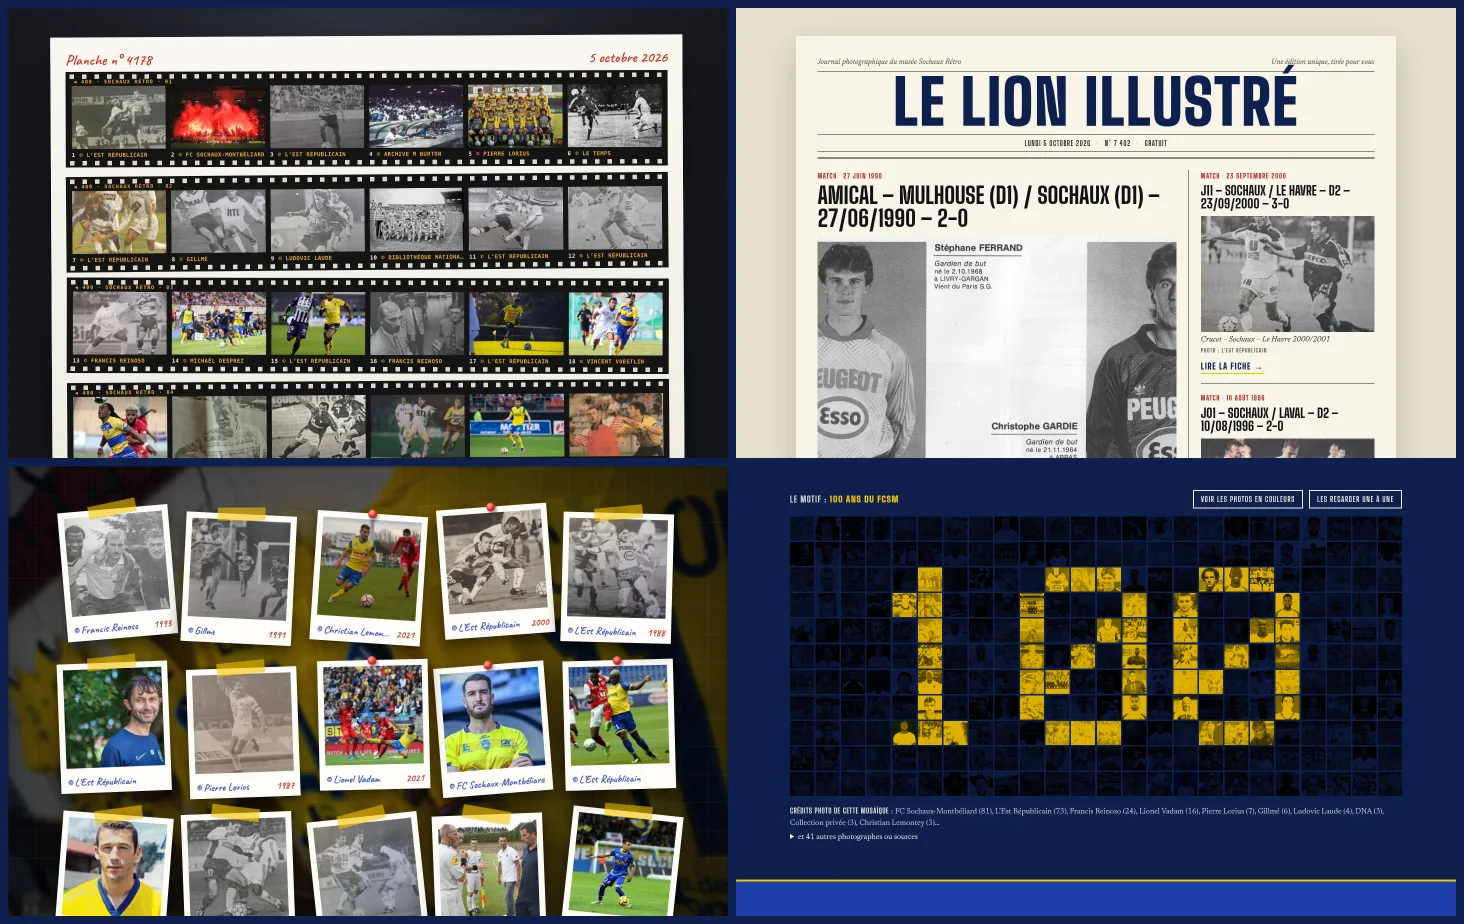
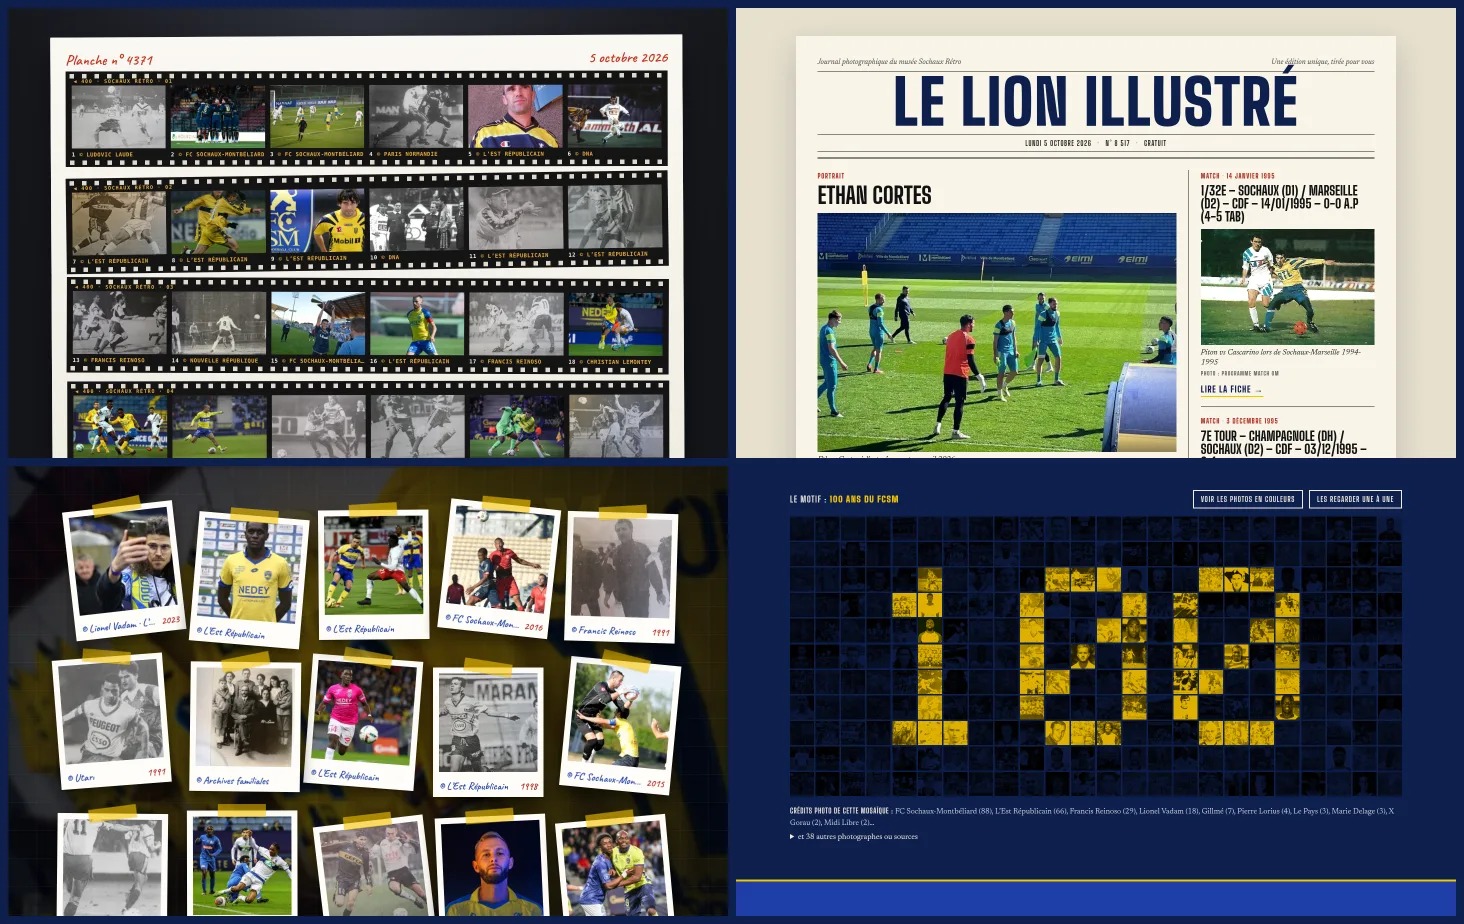
Doc et aide : mur vide après mise à jour, capture des murs à jour
Claude-Session: https://claude.ai/code/session_01Fw6UgWNFSsiGaJDezd8UB1

diff --git a/docs/TECHNIQUE.md b/docs/TECHNIQUE.md
@@ -167,7 +167,8 @@ seconde. Mesures à froid (OPcache vide), avant → après : mentions légales 3
 500 matchs 429 → 187 ms ; site de l'association 147-171 → 70-80 ms.
 
 **Après une mise à jour** (`Updater::afterChange()`) : les caches sont vidés, sauf les gros
-caches de données (`derived*`, `index-*.php`, `search.php`, `media*`) qui servent encore ; la
+caches de données (`derived*`, `index-*.php`, `search.php`, `media*` dont `media-usage.json`, sans
+lequel les murs de photos seraient vides ; s'il manque, `PhotoWall` le recalcule) qui servent encore ; la
 marque `apres-mise-a-jour` demande de les refaire avec le nouveau code (`Updater::refresh()`) :
 par la première page qui suit, au moins 5 s après et une fois envoyée (seulement si PHP sait
 terminer la page avant : PHP-FPM ou LiteSpeed), sinon par la tâche planifiée « statistiques ».

diff --git a/docs/AVANCEMENT.md b/docs/AVANCEMENT.md
@@ -504,6 +504,9 @@ Détail : `docs/CONTROLE-2026-10.md`, § 7.
       « Télécharger en PDF », PDF du tirage affiché (mêmes photos, même numéro, même motif),
       photos cliquables vers leur fiche ; mosaïque sur deux pages (motif, puis couleurs et
       crédits). `tests/photos.php`.
+- [x] **Murs vides juste après une mise à jour** (il fallait cliquer sur « Nouveau mur ») :
+      le cache « médias utilisés par les fiches » est désormais gardé pendant la mise à jour,
+      et recalculé par les murs s'il manque.
 
 ## Points de données à revoir par les historiens (relevés pendant la recette)
 - Liste complète et à jour : `docs/CONTROLE-2026-10.md`, § 3. Elle comprend :
